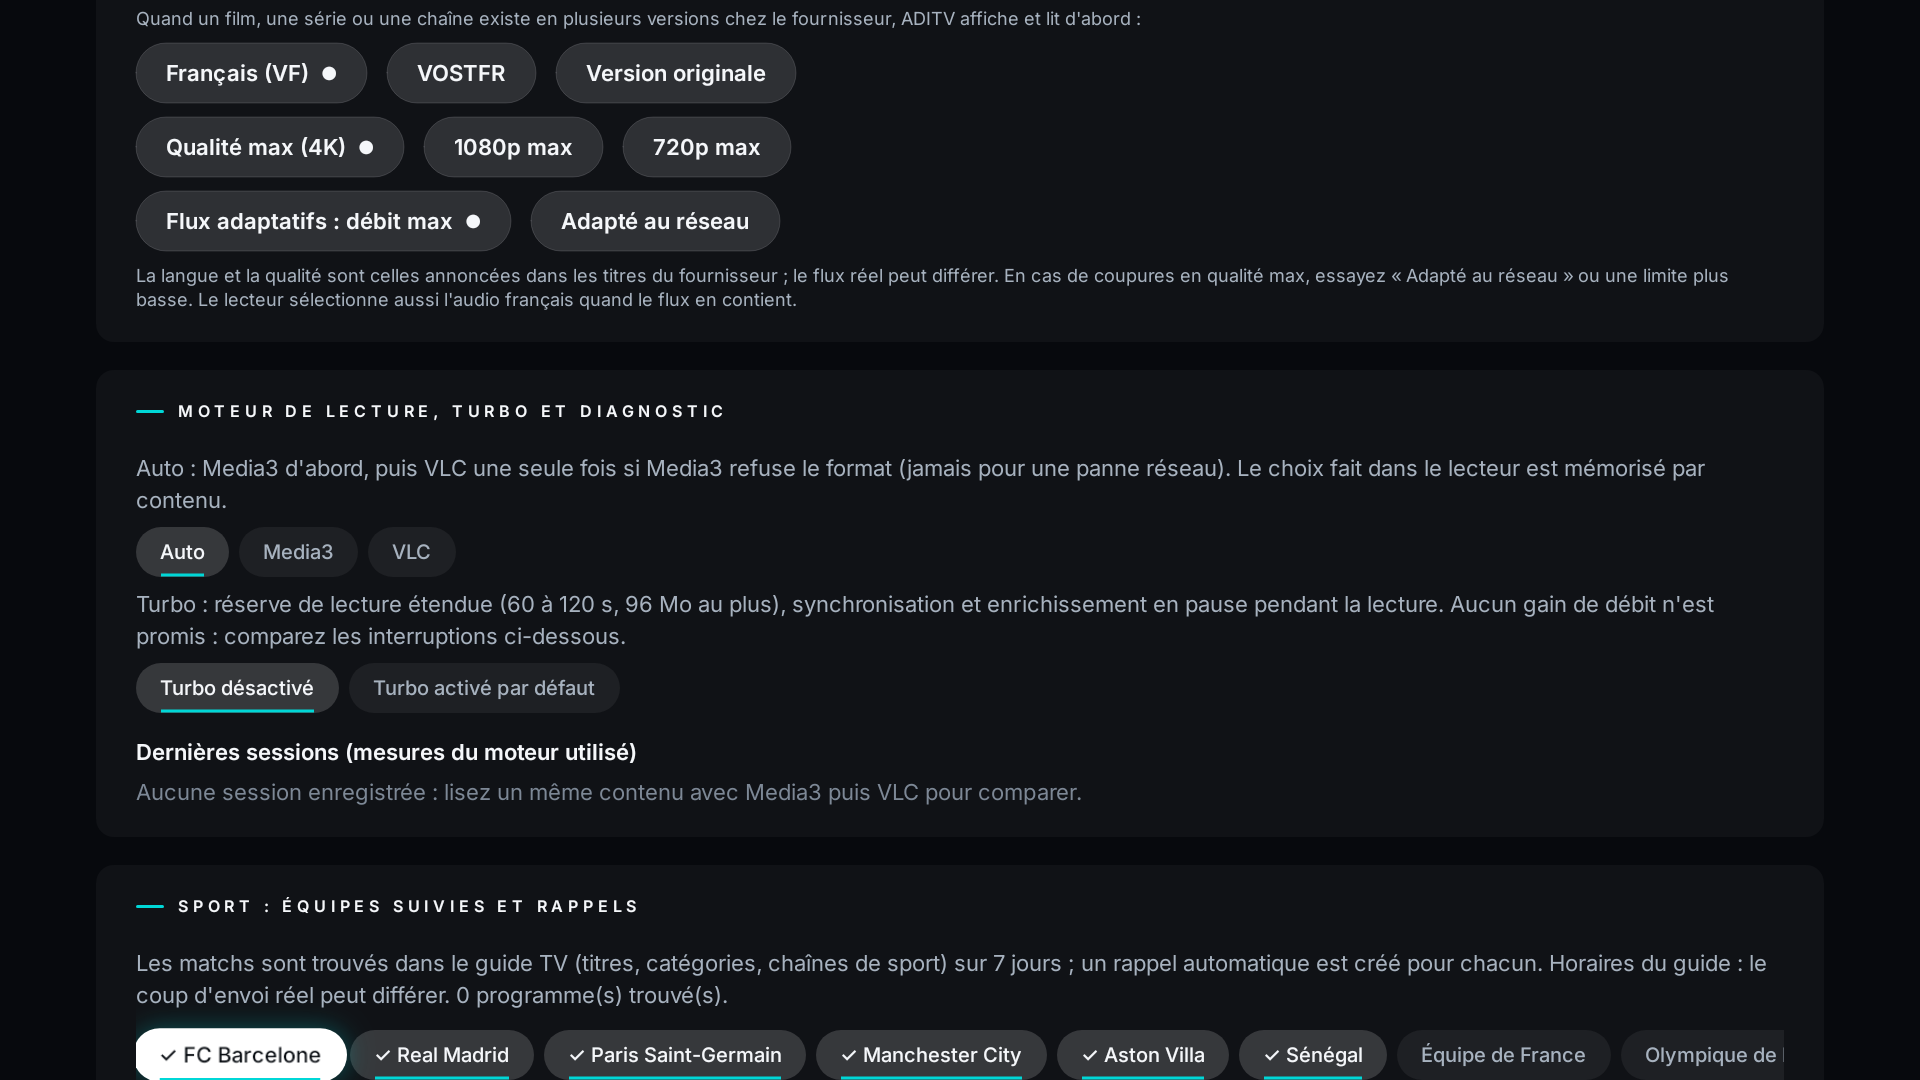
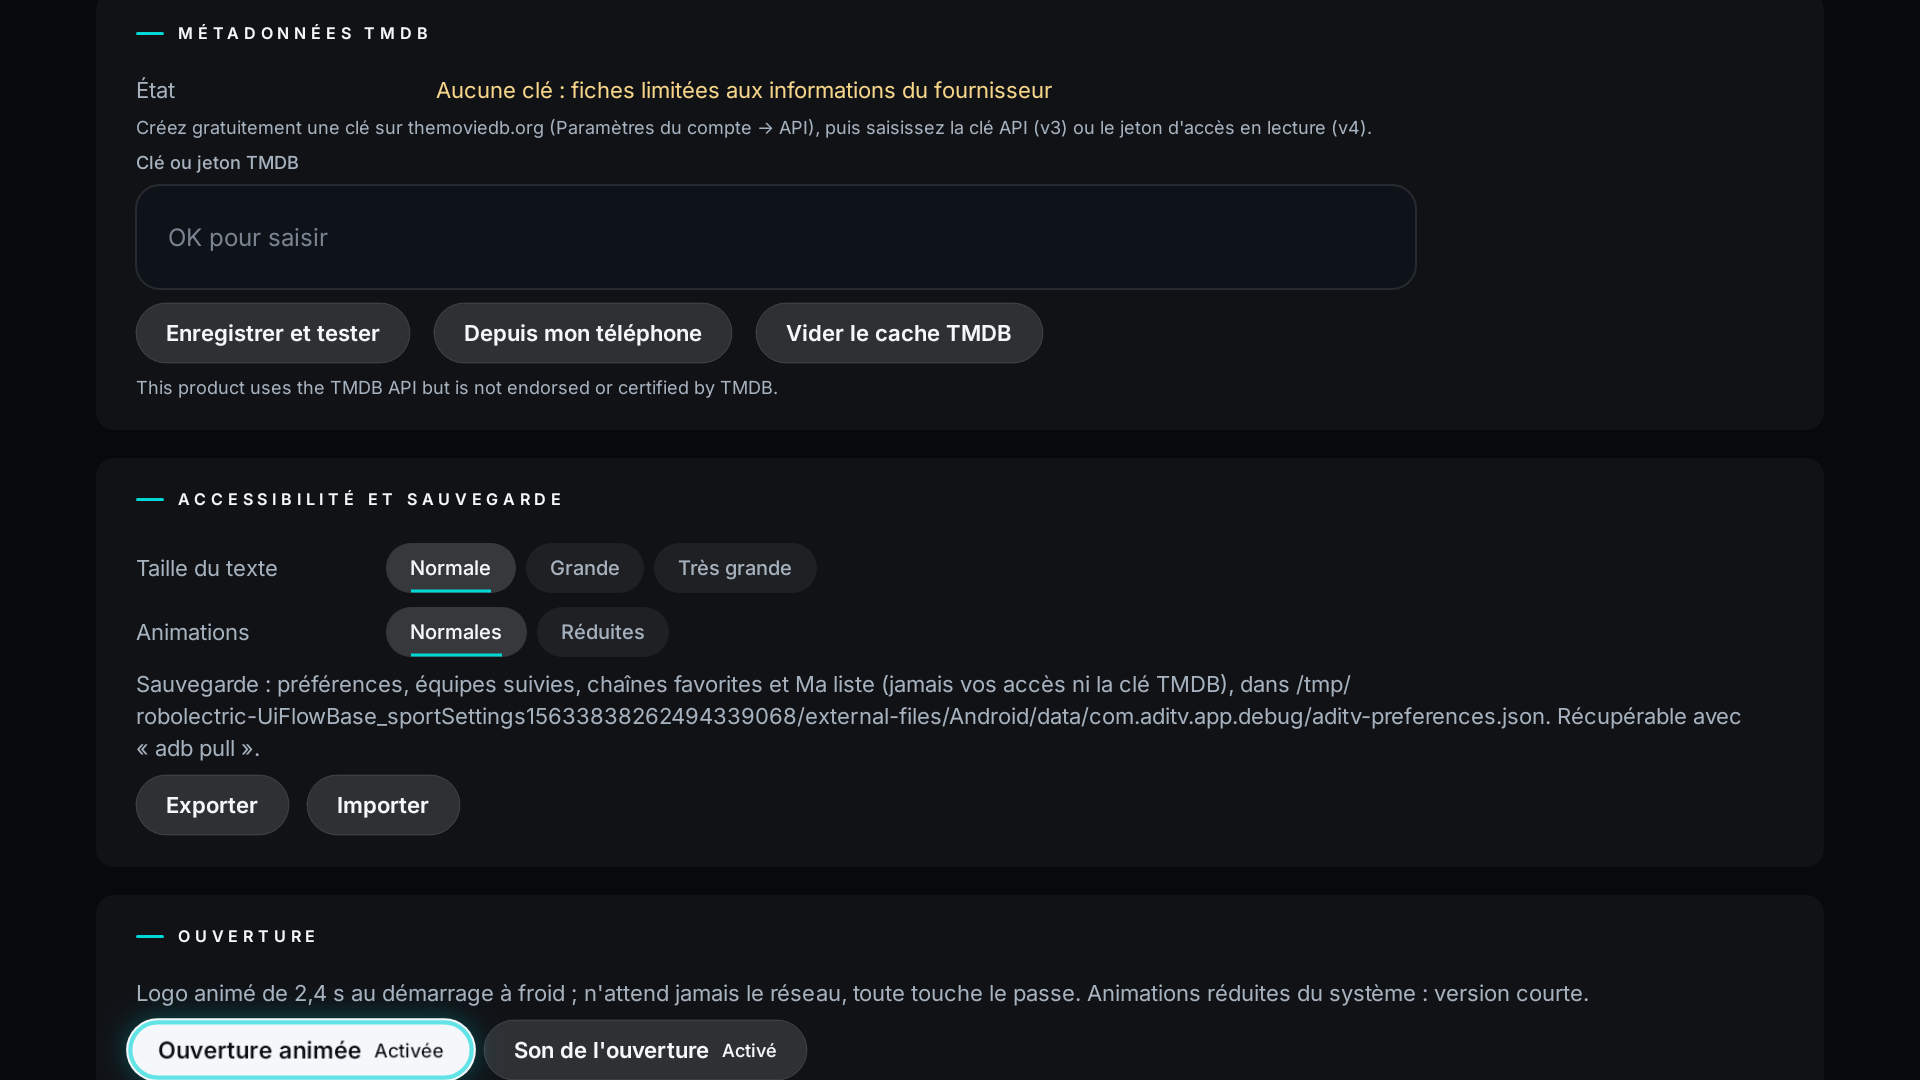
0.9.0 : versions Stick et Cube, profil d'appareil, fréquence de l'écran adaptée à la cadence du flux
Claude-Session: https://claude.ai/code/session_01AJPCu4ef6KQSU8xjVPyLKo

diff --git a/app/src/main/java/com/aditv/ui/settings/SettingsScreen.kt b/app/src/main/java/com/aditv/ui/settings/SettingsScreen.kt
@@ -153,6 +153,7 @@ fun SettingsScreen(session: Session.Active) {
         Section("Plantages") { CrashSection() }
         Section("Application") {
             Fact("Version", BuildConfig.VERSION_NAME + if (BuildConfig.DEBUG) " (build de test)" else "")
+            Fact("Appareil", com.aditv.core.DeviceProfile.label + " · Android " + android.os.Build.VERSION.RELEASE)
             Fact("Confidentialité", "Aucune télémétrie. Accès chiffrés (Android Keystore), exclus des sauvegardes et des journaux.")
             Fact("Lecture", "Moteurs Media3 et VLC (LibVLC 3), choix Auto par défaut")
             Fact("Licences", "Polices Outfit et Inter (OFL), LibVLC (LGPL 2.1), Media3 et ZXing (Apache 2.0) : détail dans docs/VERSIONS_ET_LICENCES.md")
@@ -258,6 +259,13 @@ private fun PlaybackPrefsSection() {
         AditvButton("Flux adaptatifs : débit max", { scope.launch { c.prefs.setForceHighestBitrate(true) } }, secondaryText = if (force) "●" else null)
         AditvButton("Adapté au réseau", { scope.launch { c.prefs.setForceHighestBitrate(false) } }, secondaryText = if (!force) "●" else null)
     }
+    val matchRate by c.prefs.matchFrameRate.collectAsStateWithLifecycle(true)
+    Row(horizontalArrangement = Arrangement.spacedBy(10.dp)) {
+        AditvButton("Fréquence de l'écran : adaptée au flux", { scope.launch { c.prefs.setMatchFrameRate(true) } }, secondaryText = if (matchRate) "●" else null)
+        AditvButton("Fréquence fixe", { scope.launch { c.prefs.setMatchFrameRate(false) } }, secondaryText = if (!matchRate) "●" else null)
+    }
+    Text("Fréquence adaptée : l'écran passe en 50 Hz pour un match européen et en 24 Hz pour un film (mouvements plus fluides) ; un écran noir d'1 à 2 s est normal au changement. Sur Samsung, activez aussi « Signal d'entrée plus » pour la prise HDMI de la Fire TV.",
+        style = MaterialTheme.typography.bodySmall, color = Aditv.TextSecondary)
     Text("La langue et la qualité sont celles annoncées dans les titres du fournisseur ; le flux réel peut différer. En cas de coupures en qualité max, essayez « Adapté au réseau » ou une limite plus basse. Le lecteur sélectionne aussi l'audio français quand le flux en contient.",
         style = MaterialTheme.typography.bodySmall, color = Aditv.TextSecondary)
 }
@@ -365,7 +373,7 @@ private fun EngineSection() {
             com.aditv.ui.design.FilterChip(e.label, engineDefault == e, { c.engineStore.defaultChoice = e; engineDefault = e })
         }
     }
-    Text("Turbo : réserve de lecture étendue (60 à 120 s, 96 Mo au plus), synchronisation et enrichissement en pause pendant la lecture. Aucun gain de débit n'est promis : comparez les interruptions ci-dessous.",
+    Text("Turbo : réserve de lecture étendue (60 à ${com.aditv.core.DeviceProfile.turboMaxBufferMs / 1000} s, ${com.aditv.core.DeviceProfile.turboTargetBytes / 1048576} Mo au plus), synchronisation et enrichissement en pause pendant la lecture. Aucun gain de débit n'est promis : comparez les interruptions ci-dessous.",
         style = MaterialTheme.typography.bodyMedium, color = Aditv.TextSecondary)
     Row(horizontalArrangement = Arrangement.spacedBy(5.dp)) {
         com.aditv.ui.design.FilterChip("Turbo désactivé", !turbo, { c.engineStore.turboDefault = false; turbo = false })

diff --git a/app/src/main/java/com/aditv/ui/player/PlayerScreen.kt b/app/src/main/java/com/aditv/ui/player/PlayerScreen.kt
@@ -23,6 +23,7 @@ import androidx.compose.runtime.Composable
 import androidx.compose.runtime.DisposableEffect
 import androidx.compose.runtime.LaunchedEffect
 import androidx.compose.runtime.getValue
+import androidx.lifecycle.compose.collectAsStateWithLifecycle
 import androidx.compose.runtime.mutableLongStateOf
 import androidx.compose.runtime.mutableStateOf
 import androidx.compose.runtime.remember
@@ -92,6 +93,7 @@ fun PlayerScreen(session: Session.Active, contentId: String, fromStart: Boolean,
     val c = LocalContainer.current
     val vm: PlayerViewModel = viewModel(key = "player-$contentId") { PlayerViewModel(c, session, contentId, fromStart, liveList) }
     val engine = vm.engine
+    DisplayRateMatcher(vm.videoFps)
     var controlsVisible by remember { mutableStateOf(true) }
     var lastInteraction by remember { mutableLongStateOf(System.currentTimeMillis()) }
     var panel by remember { mutableStateOf(Panel.NONE) }
@@ -572,6 +574,32 @@ private fun SleepPanel(active: Boolean, programmeEnd: Long?, contentEnd: Long?, 
             items(listOf(15, 30, 60, 90, 120)) { m -> SheetOption("Dans $m min", { onPick(now + m * 60_000L) }, detail = fmt.format(java.util.Date(now + m * 60_000L))) }
             if (programmeEnd != null) item { SheetOption("Fin du programme", { onPick(programmeEnd) }, detail = fmt.format(java.util.Date(programmeEnd))) }
             if (contentEnd != null) item { SheetOption("Fin de la lecture", { onPick(contentEnd) }, detail = fmt.format(java.util.Date(contentEnd))) }
+        }
+    }
+}
+
+
+/**
+ * Règle l'écran sur la cadence du flux (50 Hz pour le sport européen, 24 Hz pour un film), puis rend la main
+ * au mode d'origine en quittant le lecteur. Le téléviseur peut afficher un écran noir 1 à 2 s au changement.
+ */
+@androidx.compose.runtime.Composable
+private fun DisplayRateMatcher(fps: Float?) {
+    val c = LocalContainer.current
+    val enabled by c.prefs.matchFrameRate.collectAsStateWithLifecycle(true)
+    val activity = androidx.activity.compose.LocalActivity.current ?: return
+    androidx.compose.runtime.DisposableEffect(Unit) {
+        onDispose { runCatching { activity.window.attributes = activity.window.attributes.apply { preferredDisplayModeId = 0 } } }
+    }
+    LaunchedEffect(fps, enabled) {
+        if (fps == null || !enabled) return@LaunchedEffect
+        runCatching {
+            @Suppress("DEPRECATION") val display = activity.windowManager.defaultDisplay
+            val toMode = { m: android.view.Display.Mode -> com.aditv.playback.FrameRateMatch.Mode(m.modeId, m.physicalWidth, m.physicalHeight, m.refreshRate) }
+            val target = com.aditv.playback.FrameRateMatch.pick(display.supportedModes.map(toMode), toMode(display.mode), fps) ?: return@runCatching
+            if (activity.window.attributes.preferredDisplayModeId == target.id) return@runCatching
+            com.aditv.core.CrashReporter.event("Écran réglé sur ${target.refresh} Hz")
+            activity.window.attributes = activity.window.attributes.apply { preferredDisplayModeId = target.id }
         }
     }
 }

diff --git a/app/src/main/java/com/aditv/playback/FrameRateMatch.kt b/app/src/main/java/com/aditv/playback/FrameRateMatch.kt
@@ -1,0 +1,39 @@
+package com.aditv.playback
+
+import kotlin.math.abs
+import kotlin.math.roundToInt
+
+/**
+ * Adapter la fréquence de l'écran à la cadence du flux : 50 Hz pour un match diffusé en Europe (25/50 i/s),
+ * 24 Hz pour un film. Sans cela, un flux 50 i/s affiché à 60 Hz saccade légèrement dans les mouvements rapides.
+ * Calculs purs (testables) ; l'application du mode se fait dans le lecteur.
+ */
+object FrameRateMatch {
+    data class Mode(val id: Int, val width: Int, val height: Int, val refresh: Float)
+
+    private val standard = floatArrayOf(23.976f, 24f, 25f, 29.97f, 30f, 47.952f, 48f, 50f, 59.94f, 60f)
+
+    /** Cadence standard la plus proche (tolérance 1 %), ou null si rien de plausible. */
+    fun normalize(fps: Float): Float? = standard.minByOrNull { abs(it - fps) }?.takeIf { abs(it - fps) / it < 0.01f }
+
+    /** Cadence estimée à partir des horodatages des images (µs) : écart médian entre images successives. */
+    fun estimate(timestampsUs: List<Long>): Float? {
+        if (timestampsUs.size < 12) return null
+        val deltas = timestampsUs.sorted().zipWithNext { a, b -> b - a }.filter { it in 5_000..100_000 }
+        if (deltas.size < 10) return null
+        val median = deltas.sorted()[deltas.size / 2]
+        return normalize(1_000_000f / median)
+    }
+
+    /**
+     * Mode d'affichage à demander : même définition que le mode actuel, fréquence multiple exacte de la cadence
+     * (la plus haute, jusqu'à 60 Hz). Null si le mode actuel convient déjà ou si aucun ne correspond.
+     */
+    fun pick(modes: List<Mode>, current: Mode, fps: Float): Mode? {
+        val f = normalize(fps) ?: return null
+        fun matches(r: Float): Boolean { val k = (r / f).roundToInt(); return k >= 1 && abs(r - k * f) < 0.01f && r <= 60.5f }
+        if (matches(current.refresh) && current.refresh >= f) return null
+        return modes.filter { it.width == current.width && it.height == current.height && matches(it.refresh) }
+            .maxByOrNull { it.refresh }
+    }
+}

diff --git a/app/src/main/java/com/aditv/playback/engine/Media3Engine.kt b/app/src/main/java/com/aditv/playback/engine/Media3Engine.kt
@@ -37,7 +37,24 @@ class Media3Engine(private val context: Context, val player: ExoPlayer, private 
         }
         override fun onIsPlayingChanged(isPlaying: Boolean) { events?.onPlayingChanged(isPlaying) }
     }
-    init { player.addListener(listener) }
+    /** Cadence : déclarée par le flux si possible, sinon mesurée sur les premières images (fréquent en direct). */
+    private val main = android.os.Handler(android.os.Looper.getMainLooper())
+    @Volatile private var fpsReported = false
+    private val stamps = java.util.Collections.synchronizedList(ArrayList<Long>())
+    private val frameListener = androidx.media3.exoplayer.video.VideoFrameMetadataListener { presentationTimeUs, _, format, _ ->
+        if (fpsReported) return@VideoFrameMetadataListener
+        val declared = format.frameRate.takeIf { it > 0 }?.let { com.aditv.playback.FrameRateMatch.normalize(it) }
+        val fps = declared ?: run {
+            stamps += presentationTimeUs
+            if (stamps.size >= 40) com.aditv.playback.FrameRateMatch.estimate(synchronized(stamps) { stamps.toList() }) else null
+        }
+        if (fps != null || stamps.size > 200) {
+            fpsReported = true
+            if (fps != null) main.post { events?.onFrameRate(fps) }
+        }
+    }
+
+    init { player.addListener(listener); player.setVideoFrameMetadataListener(frameListener) }
 
     override val isPlaying get() = player.isPlaying
     override val isBuffering get() = player.playbackState == Player.STATE_BUFFERING
@@ -110,7 +127,7 @@ class Media3Engine(private val context: Context, val player: ExoPlayer, private 
         )
     }
 
-    override fun release() { player.removeListener(listener) }
+    override fun release() { player.removeListener(listener); runCatching { player.clearVideoFrameMetadataListener(frameListener) }; main.removeCallbacksAndMessages(null) }
 
     @Composable
     override fun VideoSurface(modifier: Modifier) {

diff --git a/app/src/test/java/com/aditv/playback/FrameRateMatchTest.kt b/app/src/test/java/com/aditv/playback/FrameRateMatchTest.kt
@@ -1,0 +1,32 @@
+package com.aditv.playback
+
+import com.aditv.playback.FrameRateMatch.Mode
+import org.junit.Assert.assertEquals
+import org.junit.Assert.assertNull
+import org.junit.Test
+
+class FrameRateMatchTest {
+    private val uhd60 = Mode(1, 3840, 2160, 60f)
+    private val modes = listOf(
+        uhd60, Mode(2, 3840, 2160, 50f), Mode(3, 3840, 2160, 24f), Mode(4, 3840, 2160, 23.976f), Mode(5, 3840, 2160, 59.94f),
+        Mode(6, 1920, 1080, 50f), Mode(7, 3840, 2160, 30f), Mode(8, 3840, 2160, 25f),
+    )
+
+    @Test fun picksTheRightRefreshRate() {
+        assertEquals("match européen 25 i/s → 50 Hz", 2, FrameRateMatch.pick(modes, uhd60, 25f)?.id)
+        assertEquals("50 i/s → 50 Hz", 2, FrameRateMatch.pick(modes, uhd60, 50f)?.id)
+        assertEquals("film 24 → 24 Hz", 3, FrameRateMatch.pick(modes, uhd60, 24f)?.id)
+        assertEquals("film 23,976 → 23,976 Hz", 4, FrameRateMatch.pick(modes, uhd60, 23.976f)?.id)
+        assertNull("30 i/s : 60 Hz convient déjà", FrameRateMatch.pick(modes, uhd60, 30f))
+        assertEquals("59,94 → 59,94 Hz", 5, FrameRateMatch.pick(modes, uhd60, 59.94f)?.id)
+        assertNull("même définition seulement, cadence absurde ignorée", FrameRateMatch.pick(modes, uhd60, 17f))
+        assertNull("déjà en 50 Hz", FrameRateMatch.pick(modes, Mode(2, 3840, 2160, 50f), 25f))
+    }
+
+    @Test fun estimatesFromFrameTimestamps() {
+        assertEquals(25f, FrameRateMatch.estimate((0 until 40).map { it * 40_000L })!!, 0.01f)
+        assertEquals(50f, FrameRateMatch.estimate((0 until 40).map { it * 20_000L }.shuffled())!!, 0.01f)
+        assertEquals(23.976f, FrameRateMatch.estimate((0 until 40).map { (it * 41_708.3).toLong() })!!, 0.01f)
+        assertNull("trop peu d'images", FrameRateMatch.estimate(listOf(0L, 40_000L)))
+    }
+}

diff --git a/app/src/main/java/com/aditv/playback/engine/VlcEngine.kt b/app/src/main/java/com/aditv/playback/engine/VlcEngine.kt
@@ -49,6 +49,7 @@ class VlcEngine(
     private var wantPlay = true
     /** Après release(), plus aucun appel natif : un objet VLC libéré peut faire planter le processus. */
     @Volatile private var released = false
+    @Volatile private var fpsReported = false
     override var stalls = 0; private set
     override var startupMs: Long? = null; private set
 
@@ -56,7 +57,18 @@ class VlcEngine(
         mp.media = media
         mp.setEventListener { e ->
             when (e.type) {
-                MediaPlayer.Event.Playing -> { buffering = false; if (!started) { started = true; startupMs = System.currentTimeMillis() - openedAt }; events?.onPlayingChanged(true) }
+                MediaPlayer.Event.Playing -> {
+                    buffering = false
+                    if (!started) { started = true; startupMs = System.currentTimeMillis() - openedAt }
+                    events?.onPlayingChanged(true)
+                    // Cadence déclarée par VLC (piste vidéo), pour adapter la fréquence de l'écran.
+                    if (!fpsReported) main.postDelayed({
+                        if (released || fpsReported) return@postDelayed
+                        val v = runCatching { mp.currentVideoTrack }.getOrNull()
+                        v?.takeIf { it.frameRateDen > 0 }?.let { com.aditv.playback.FrameRateMatch.normalize(it.frameRateNum.toFloat() / it.frameRateDen) }
+                            ?.let { fpsReported = true; events?.onFrameRate(it) }
+                    }, 1_500)
+                }
                 MediaPlayer.Event.Paused -> events?.onPlayingChanged(false)
                 MediaPlayer.Event.Buffering -> {
                     val wasBuffering = buffering

diff --git a/app/src/main/java/com/aditv/core/DeviceProfile.kt b/app/src/main/java/com/aditv/core/DeviceProfile.kt
@@ -1,0 +1,27 @@
+package com.aditv.core
+
+import com.aditv.BuildConfig
+
+/**
+ * Limites selon l'appareil. La Stick 4K 1re génération (1,5 Go, 4 cœurs 1,7 GHz, 32 bits) garde des réglages prudents ;
+ * le Cube 3e génération (2 Go, 8 cœurs, 64 bits) en a de plus généreux. Les garde-fous (calculs hors interface,
+ * chargement par morceaux) restent actifs partout.
+ */
+object DeviceProfile {
+    val highEnd: Boolean = BuildConfig.HIGH_END
+
+    val label: String get() = if (highEnd) "Fire TV Cube (réglages étendus)" else "Fire TV Stick (réglages prudents)"
+    /** Turbo Media3 : réserve maximale (ms) et plafond mémoire (octets). */
+    val turboMaxBufferMs: Int get() = if (highEnd) 180_000 else 120_000
+    val turboTargetBytes: Int get() = if (highEnd) 200 * 1024 * 1024 else 96 * 1024 * 1024
+    /** VLC en Turbo : mise en cache réseau (ms). */
+    val vlcTurboCachingMs: Int get() = if (highEnd) 12_000 else 8_000
+    /** Part de la mémoire de l'appli pour le cache d'images. */
+    val imageMemoryPercent: Double get() = if (highEnd) 0.25 else 0.15
+    /** Direct, filtre « Toutes » : nombre de chaînes affichées. */
+    val guideAllMax: Int get() = if (highEnd) 600 else 200
+    /** Grilles : titres chargés par morceau. */
+    val gridPage: Int get() = if (highEnd) 480 else 240
+    /** Délai avant les tâches de fond au démarrage. */
+    val startupGraceMs: Long get() = if (highEnd) 4_000 else 12_000
+}

diff --git a/app/src/main/java/com/aditv/playback/engine/PlaybackEngine.kt b/app/src/main/java/com/aditv/playback/engine/PlaybackEngine.kt
@@ -26,18 +26,20 @@ interface EngineEvents {
     fun onError(message: String, retryable: Boolean, formatProblem: Boolean)
     fun onEnded()
     fun onPlayingChanged(playing: Boolean)
+    /** Cadence de la vidéo (images/s), dès qu'elle est connue. */
+    fun onFrameRate(fps: Float) {}
 }
 
 /** Paramètres de mémoire tampon (Turbo : réserve étendue, plafond mémoire). */
 data class BufferPolicy(val turbo: Boolean) {
     /** Media3 : réserve minimale / maximale et reprise après coupure (ms), plafond mémoire (octets). */
     val minBufferMs get() = if (turbo) 60_000 else 30_000
-    val maxBufferMs get() = if (turbo) 120_000 else 50_000
+    val maxBufferMs get() = if (turbo) com.aditv.core.DeviceProfile.turboMaxBufferMs else 50_000
     val rebufferMs get() = if (turbo) 5_000 else 2_500
     /** Plafond : Fire TV Stick 1re génération (1,5 Go de RAM partagée), jamais plus de 96 Mo de tampon. */
-    val targetBytes get() = if (turbo) 96 * 1024 * 1024 else -1
+    val targetBytes get() = if (turbo) com.aditv.core.DeviceProfile.turboTargetBytes else -1
     /** VLC : mise en cache réseau (ms). */
-    val vlcNetworkCachingMs get() = if (turbo) 8_000 else 2_000
+    val vlcNetworkCachingMs get() = if (turbo) com.aditv.core.DeviceProfile.vlcTurboCachingMs else 2_000
 }
 
 /**

diff --git a/app/src/main/java/com/aditv/ui/player/PlayerViewModel.kt b/app/src/main/java/com/aditv/ui/player/PlayerViewModel.kt
@@ -62,6 +62,8 @@ class PlayerViewModel(
     var engineChoice by mutableStateOf(EngineChoice.AUTO); private set
     /** Bascule automatique effectuée (affichée, jamais silencieuse). */
     var engineNote by mutableStateOf<String?>(null); private set
+    /** Cadence de la vidéo en cours (images/s), pour adapter la fréquence de l'écran. */
+    var videoFps by mutableStateOf<Float?>(null); private set
     var turbo by mutableStateOf(false); private set
     var versions by mutableStateOf<List<VersionOption>>(emptyList()); private set
     var isFavorite by mutableStateOf(false); private set
@@ -88,6 +90,10 @@ class PlayerViewModel(
     private val choiceKey get() = currentItem?.variantKey ?: request?.contentId ?: contentId
 
     private val events = object : EngineEvents {
+        override fun onFrameRate(fps: Float) {
+            videoFps = fps
+            com.aditv.core.CrashReporter.event("Cadence vidéo : ${"%.3f".format(fps).trimEnd('0').trimEnd('.')} i/s")
+        }
         override fun onError(message: String, retryable: Boolean, formatProblem: Boolean) {
             val current = engine?.kind ?: EngineKind.MEDIA3
             lastError = message

diff --git a/app/src/main/java/com/aditv/data/prefs/AppPrefs.kt b/app/src/main/java/com/aditv/data/prefs/AppPrefs.kt
@@ -49,6 +49,10 @@ class AppPrefs(private val context: Context) {
     /** Flux adaptatifs (HLS multi-débits) : forcer le débit le plus élevé au lieu de l'adaptation au réseau. */
     val forceHighestBitrate: Flow<Boolean> = context.dataStore.data.map { it[forceHighest] ?: true }
     suspend fun setForceHighestBitrate(v: Boolean) = context.dataStore.edit { it[forceHighest] = v }
+    /** Adapter la fréquence de l'écran à la cadence du flux (50 Hz pour le foot, 24 Hz pour les films). */
+    private val matchRate = booleanPreferencesKey("match_frame_rate")
+    val matchFrameRate: Flow<Boolean> = context.dataStore.data.map { it[matchRate] ?: true }
+    suspend fun setMatchFrameRate(v: Boolean) = context.dataStore.edit { it[matchRate] = v }
 
     // ---------- ouverture : image et son désactivables séparément ----------
     private val introImage = booleanPreferencesKey("intro_image")

diff --git a/app/src/main/java/com/aditv/di/AppContainer.kt b/app/src/main/java/com/aditv/di/AppContainer.kt
@@ -78,7 +78,7 @@ class AppContainer(context: Context) {
 
     val imageLoader: ImageLoader = ImageLoader.Builder(context)
         .components { add(OkHttpNetworkFetcherFactory(callFactory = { http.images })) }
-        .memoryCache { MemoryCache.Builder().maxSizePercent(context, 0.15).build() }
+        .memoryCache { MemoryCache.Builder().maxSizePercent(context, com.aditv.core.DeviceProfile.imageMemoryPercent).build() }
         .diskCache { DiskCache.Builder().directory(context.cacheDir.resolve("images").toOkioPath()).maxSizeBytes(imageCacheBytes(context)).build() }
         .crossfade(false)
         .build()

diff --git a/app/src/main/java/com/aditv/ui/browse/BrowseScreen.kt b/app/src/main/java/com/aditv/ui/browse/BrowseScreen.kt
@@ -129,7 +129,7 @@ class BrowseViewModel(c: AppContainer, private val accountId: String, private va
     @Volatile private var rawCount = 0
     @Volatile private var grownFrom = -1
 
-    companion object { const val FAVORITES = "★favoris"; const val ALL = "★tout"; const val PAGE = 240 }
+    companion object { const val FAVORITES = "★favoris"; const val ALL = "★tout"; val PAGE = com.aditv.core.DeviceProfile.gridPage }
 }
 
 @Composable
